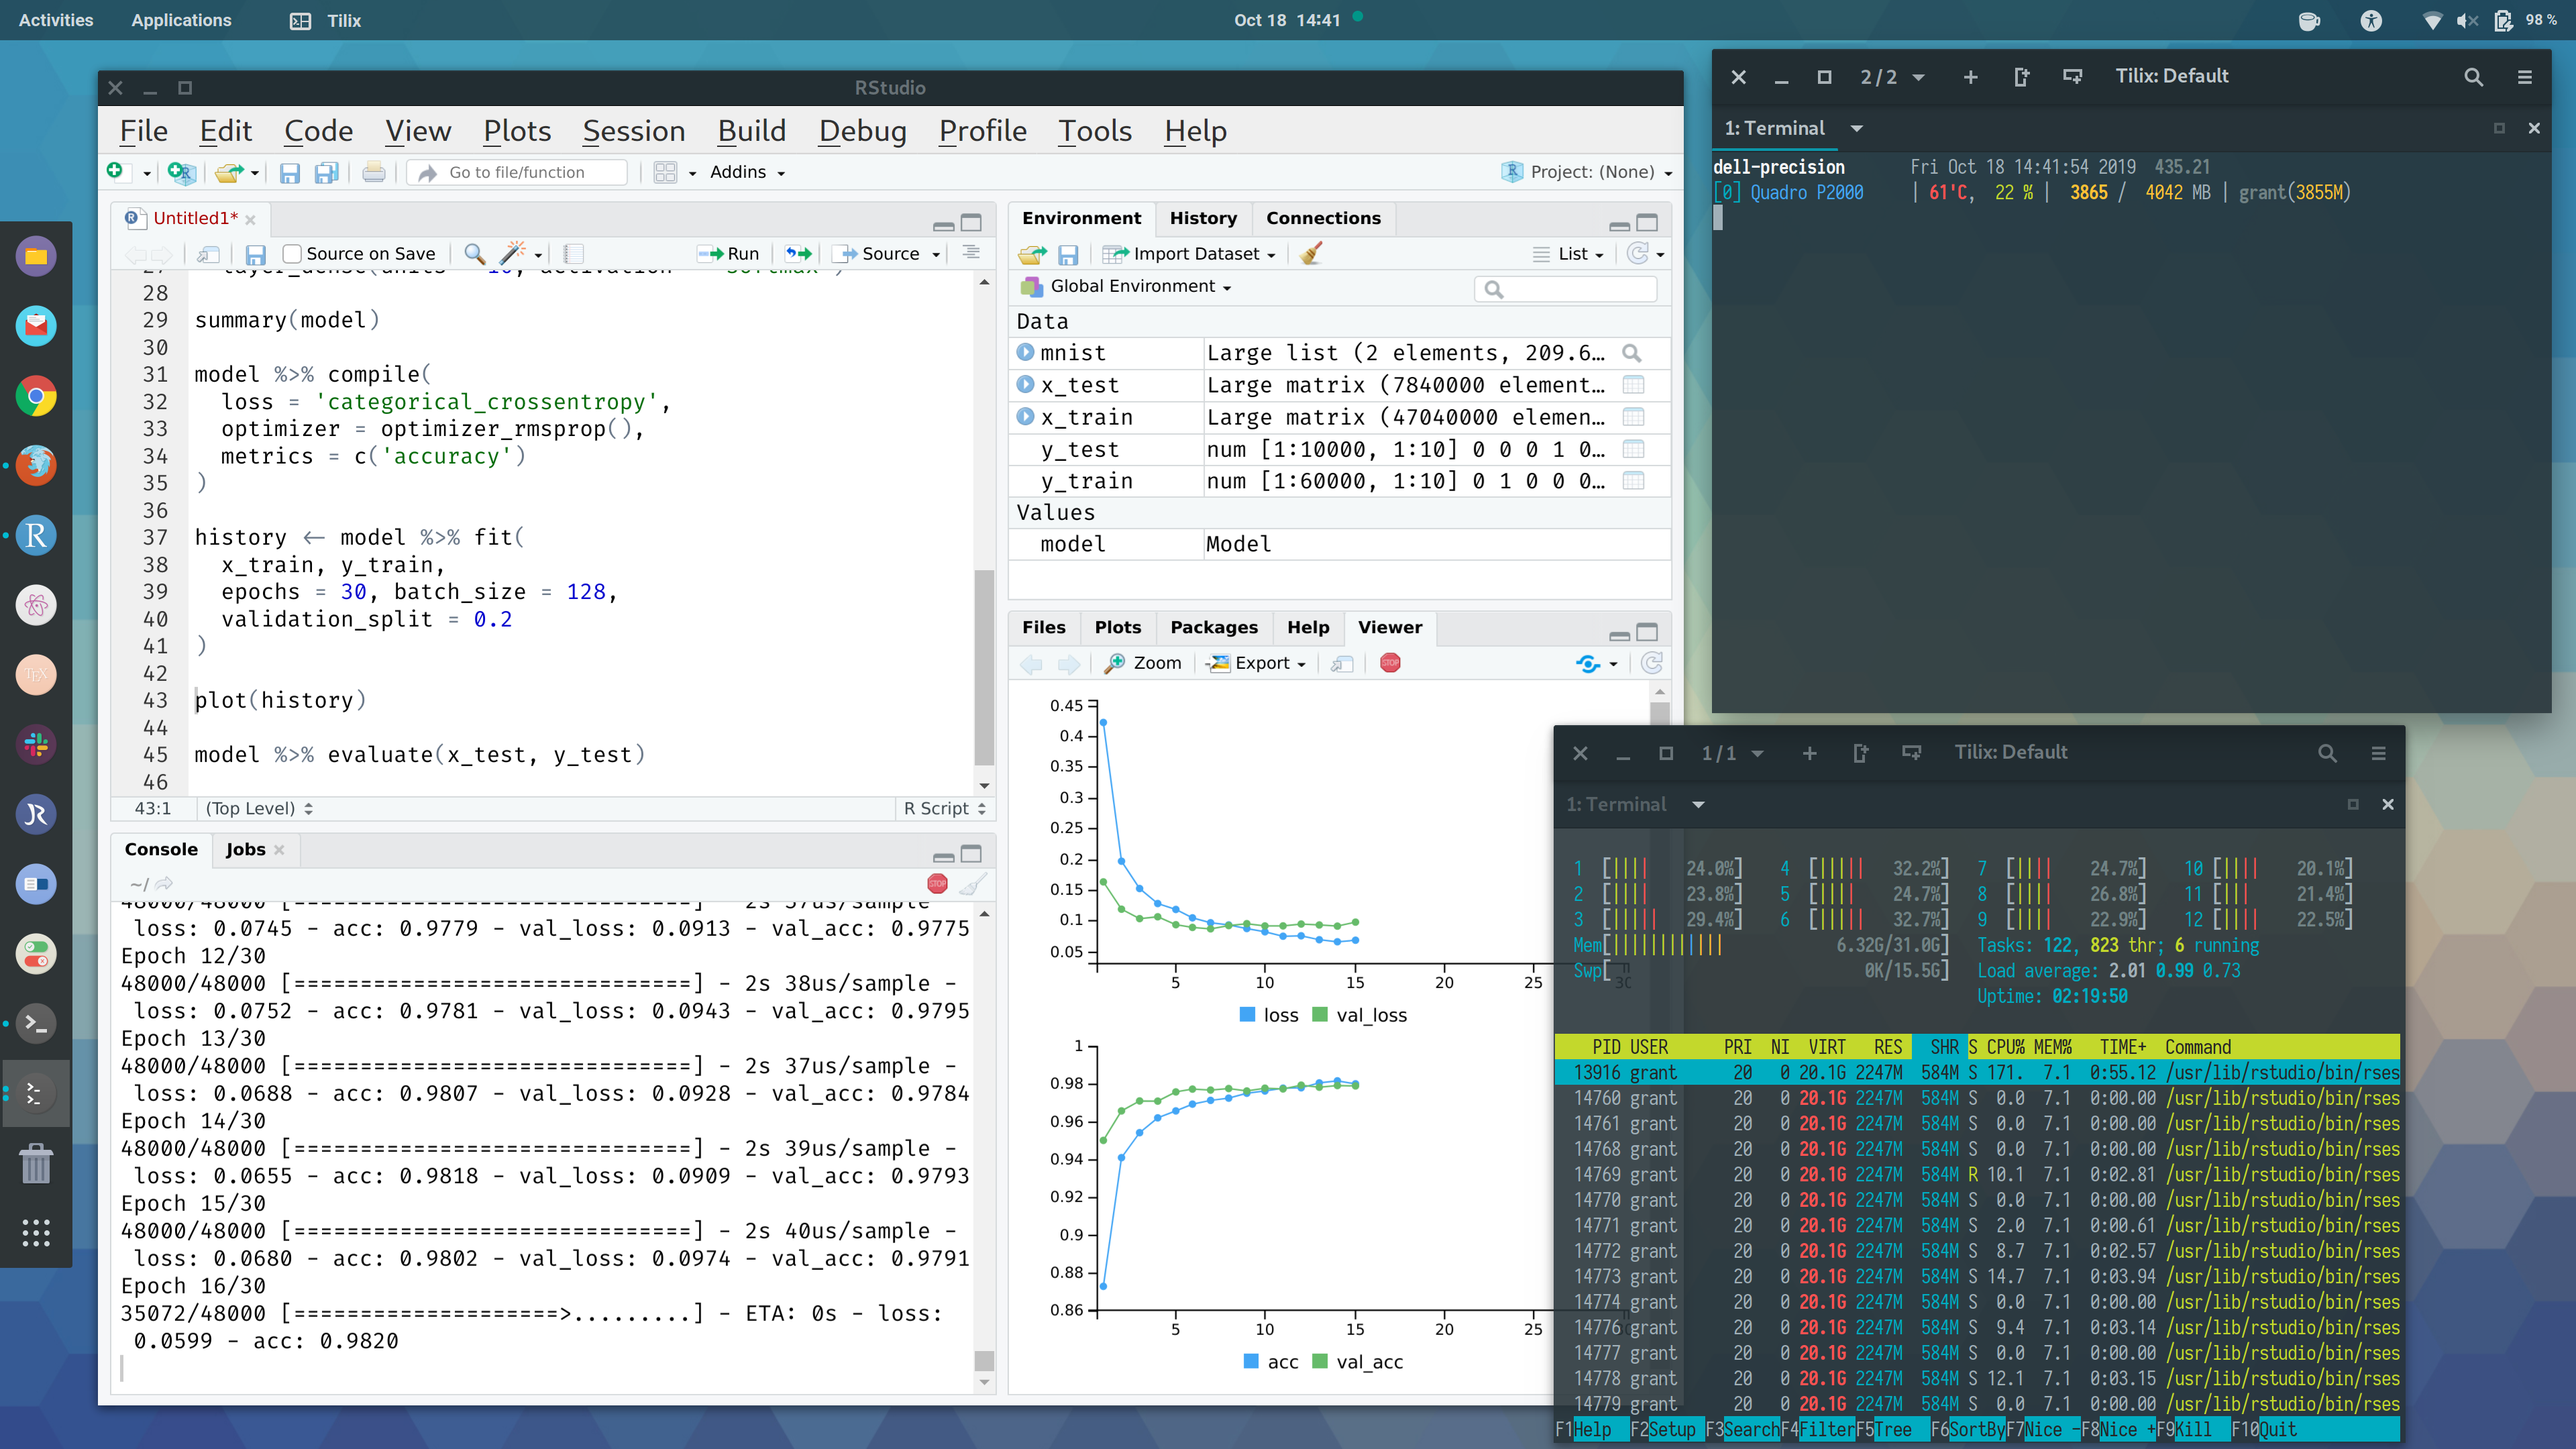
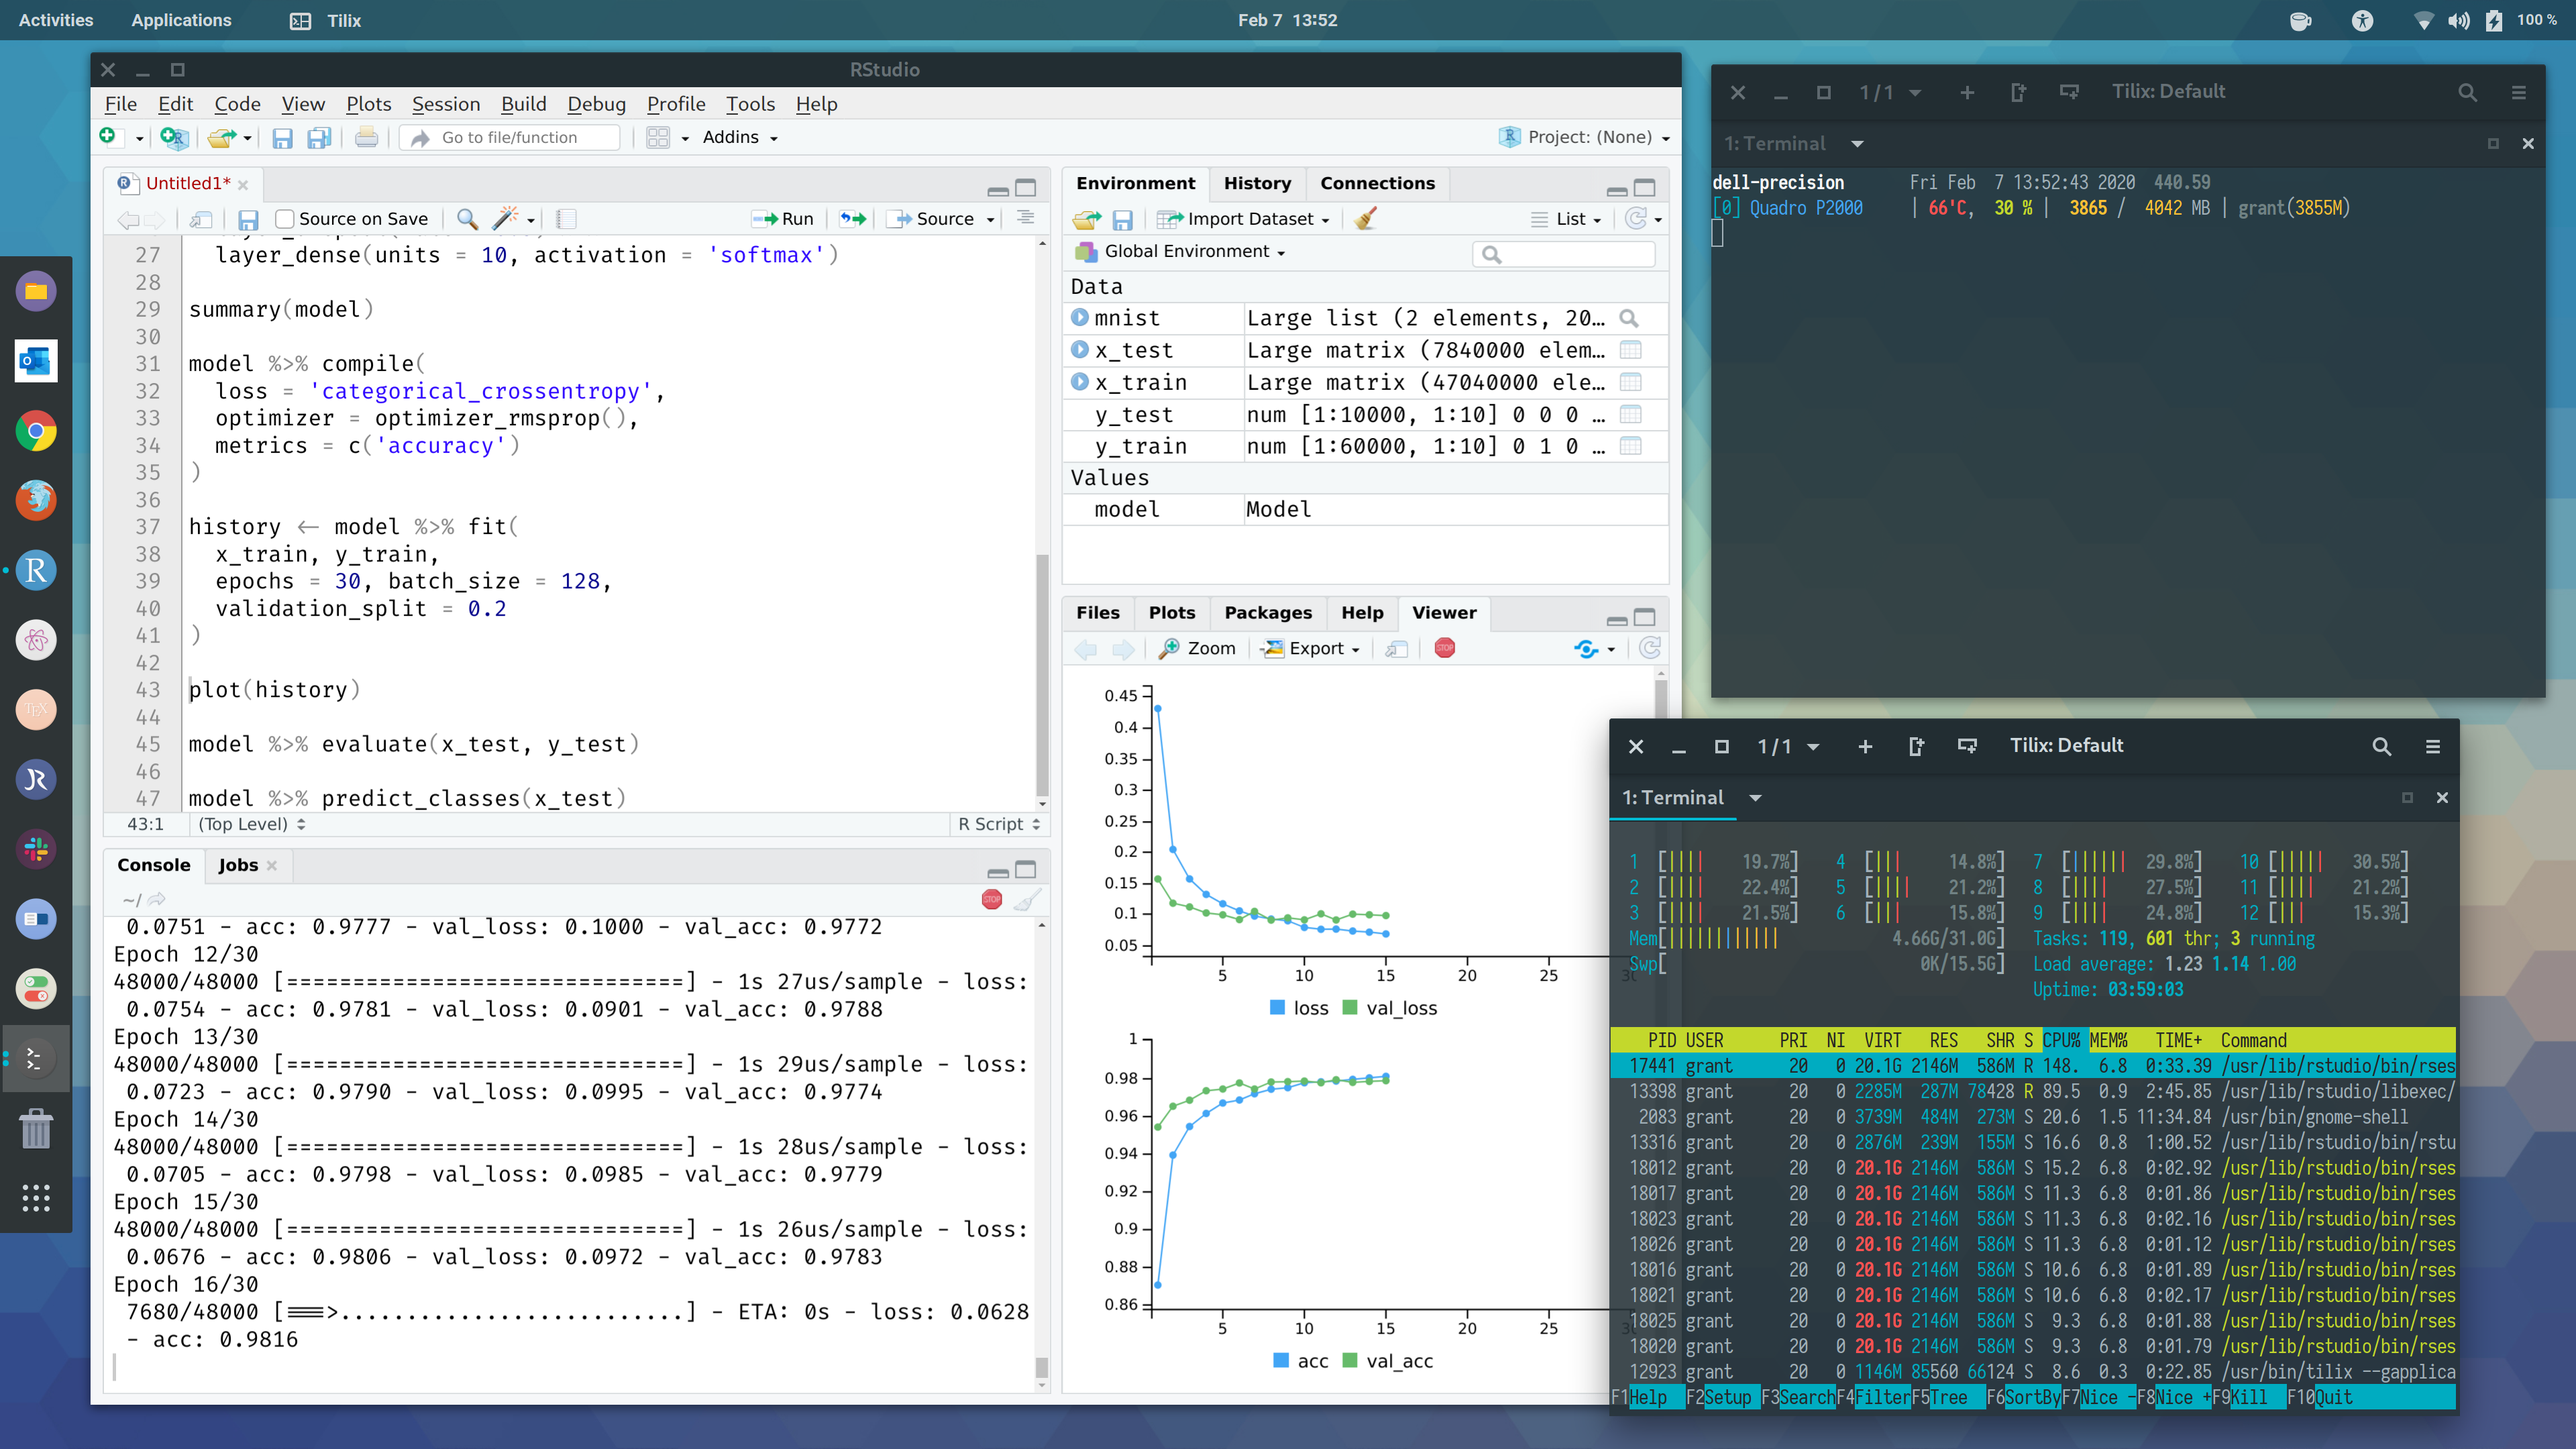
Update desktop screenshot to show Outlook

Changed region(s): [[0.0, 0.0, 1.0, 1.0], [0.9688, 0.3722, 1.0, 0.4032], [0.9688, 0.1861, 1.0, 0.2171]]

diff --git a/README.md b/README.md
@@ -347,7 +347,7 @@ Save and close (`Ctrl+X`, `y`). Finally, update your icon cache.
 $ sudo gtk-update-icon-cache /usr/share/icons/hicolor -f
 ```
 
-You should now able to launch Outlook like any desktop app (e.g. using the super key in Gnome and search for "outlook"). It can also be added to your launcher favourites in the usual way. 
+You should now able to launch Outlook like any desktop app (e.g. using the super key in Gnome and search for "outlook"). It can also be added to your launcher favourites in the usual way. (See my desktop screenshot at the top of this README.)
 
 ### Tilix
 
